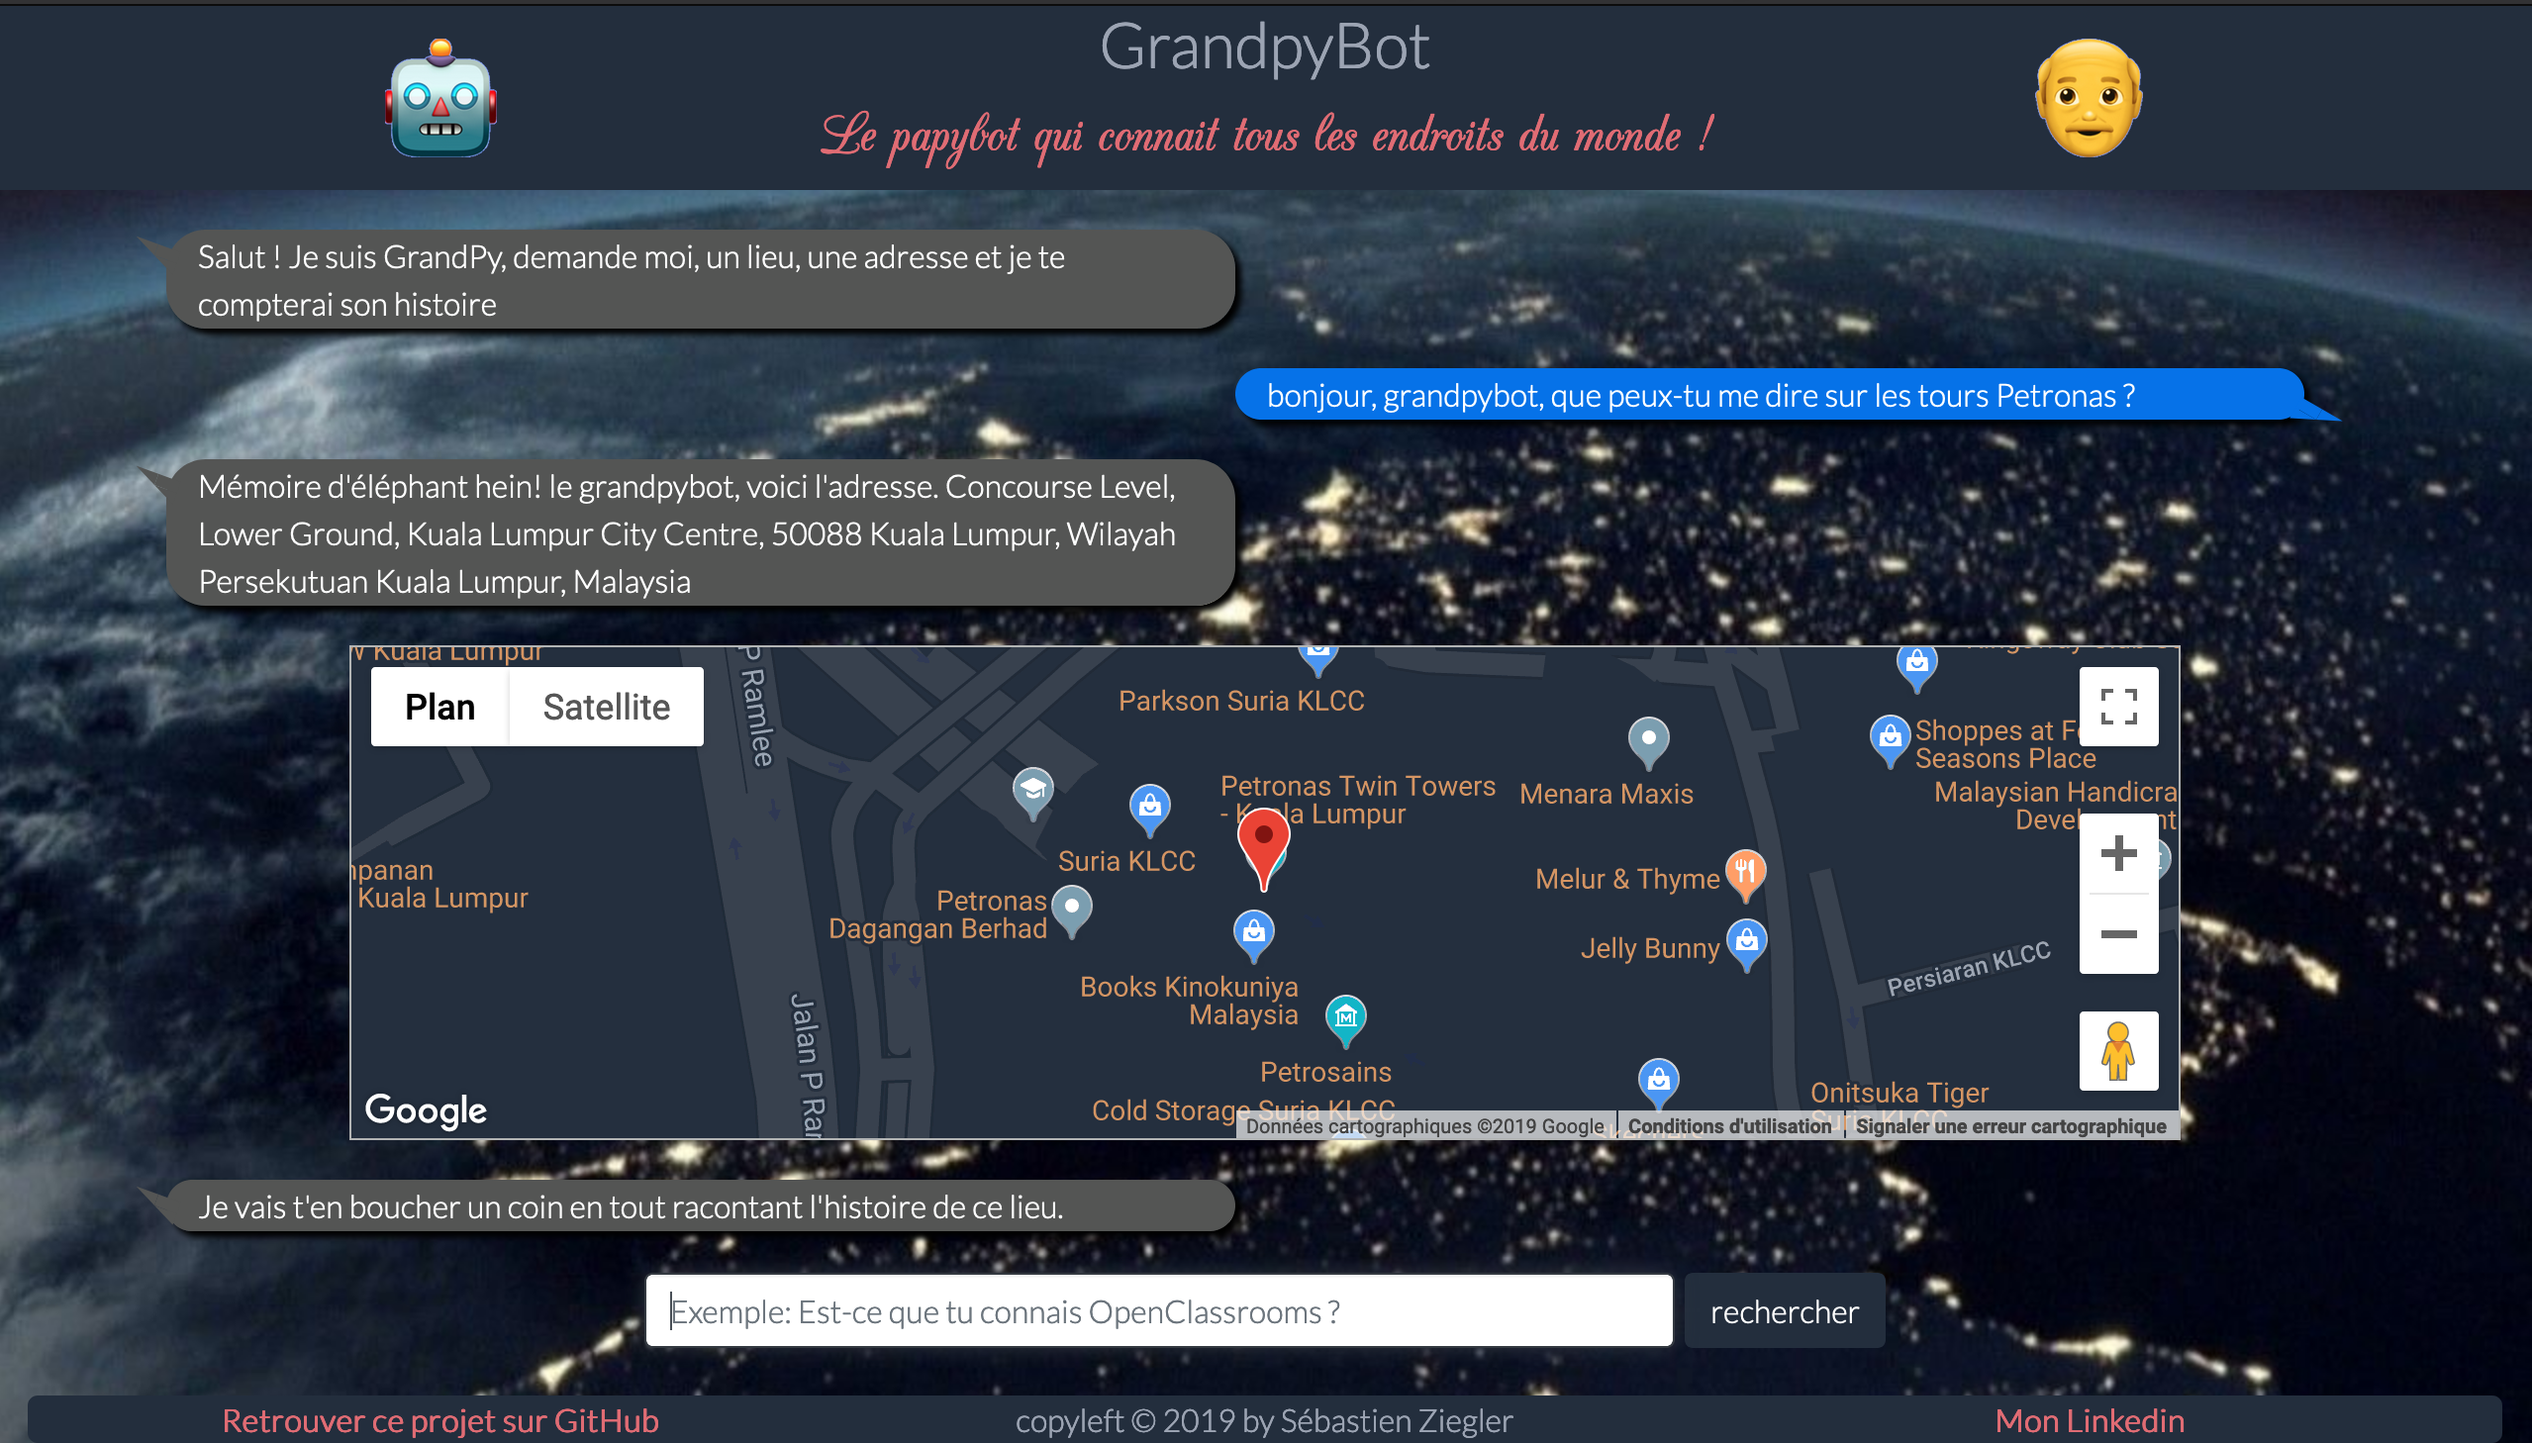
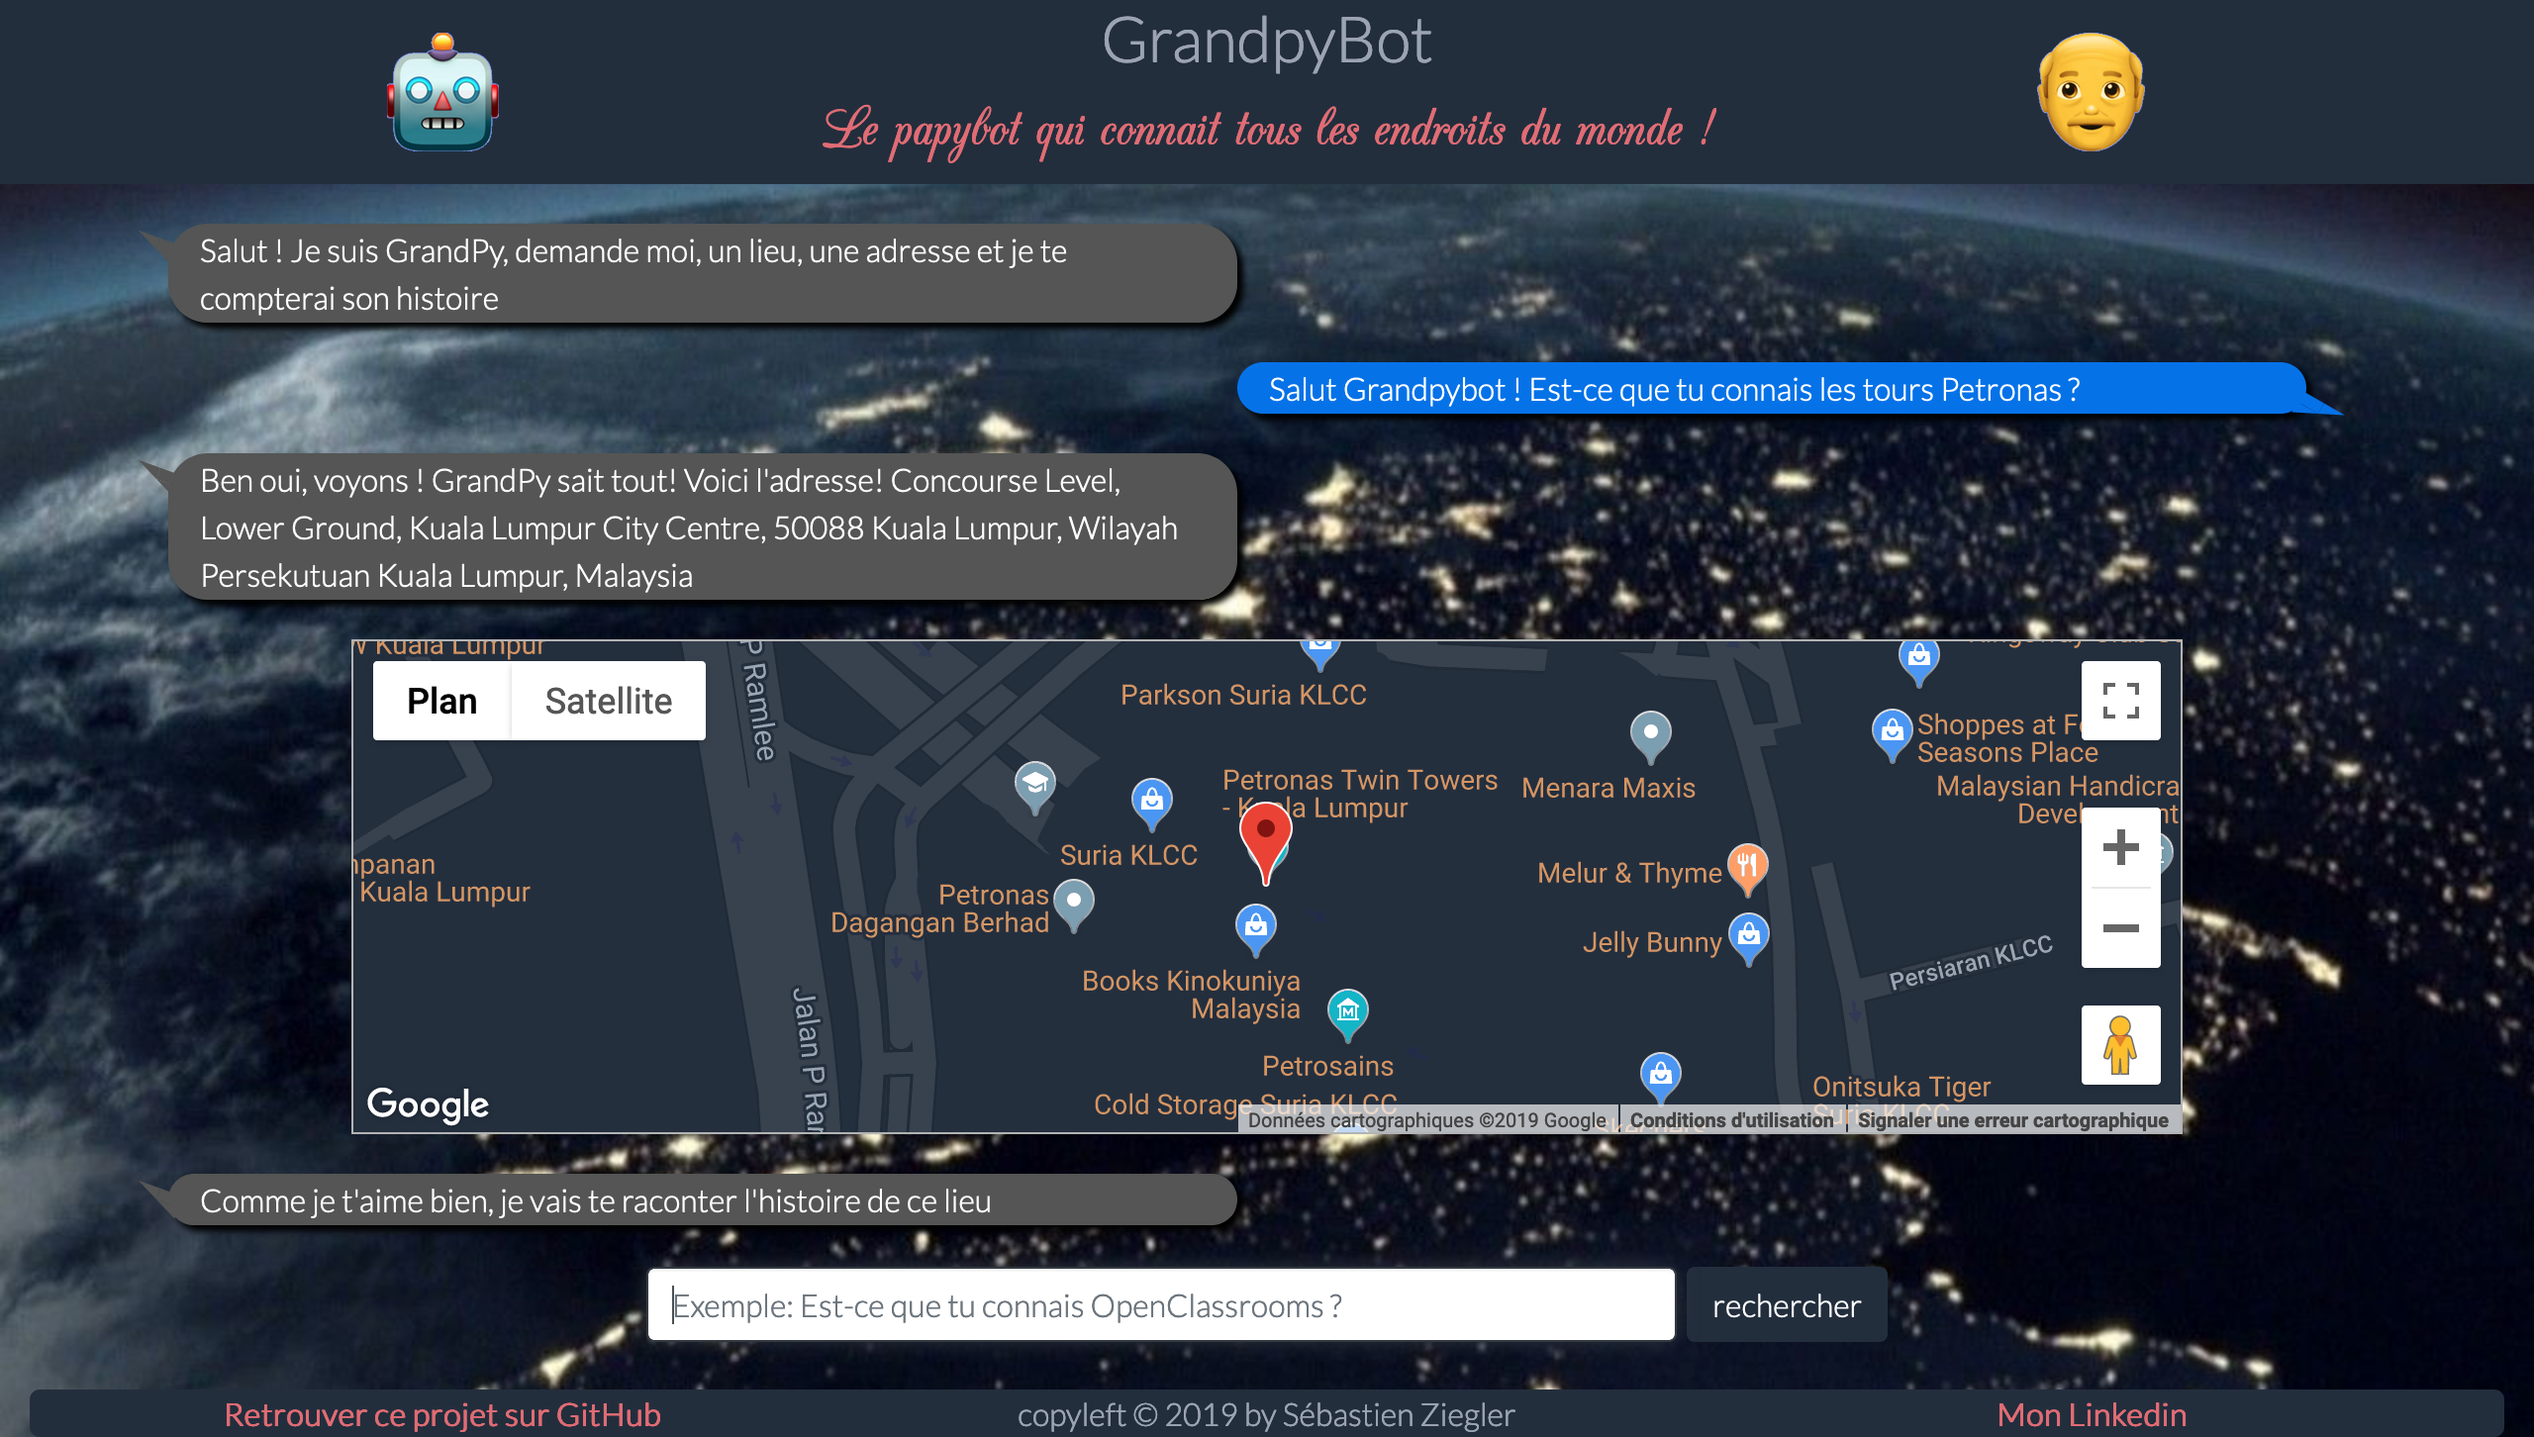
Update Text and Sreenshots

diff --git a/grandpybotapp/utils/settings/texts_config.py b/grandpybotapp/utils/settings/texts_config.py
@@ -5,10 +5,10 @@ STOPWORDS = ["a","abord","absolument","afin","ah","ai","aie","ailleurs","ainsi",
 
 CUSTOM_STOPWORDS=["salut", "bonjour", "hello", "grandpy", "grandpybot", "grand-père", "papy", "bot", "connais", "connaissais", "connu", "adresse", "lieu", "endroit", "s'appelle", "si", "s'il", "te", "plaît", "stp", "merci", "sais", "sais-tu", "saurais", "saurais-tu", "sauriez", "sauriez-vous", "trouve", "veux", "voudrais", "souhaite", "souhaiterais", "voir", "aller", "rendre", "indiquer", "visiter"]
 
-WIKIFOUND=["HA ha! Oui, je connais bien. Je vais te raconter ce que je sais sur cet endroit.", " Assieds toi mon petiot, je vais te conter l'histoire de ce lieu", "Comme je t'aime bien, je vais te raconter l'histoire de ce lieu", "Je vais t'en boucher un coin en tout racontant l'histoire de ce lieu."]
+WIKIFOUND=["HA ha! Oui, je connais bien. Je vais te raconter ce que je sais sur cet endroit.", " Assieds toi mon petiot, je vais te conter l'histoire de ce lieu", "Comme je t'aime bien, je vais te raconter l'histoire de ce lieu", "Je vais t'en boucher un coin en te racontant l'histoire de ce lieu."]
 
-GOOGLEFOUND=["Mémoire d'éléphant hein! le grandpybot, voici l'adresse. " , "Super ! Je me souviens de l'adresse la voici! ", "heureka ! Ha oui oui oui, mais bien sûr, je me rappelle de cette endroit, voilà son emplacement !", "Champion du monde de la mémoire, Grandpy sait tout! Ca se trouve...", "Ben oui, voyons ! GrandPy sait tout! Voici l'adresse! "]
+GOOGLEFOUND=["Mémoire d'éléphant hein! le grandpybot, voici l'adresse. " , "Super ! Je me souviens de l'adresse la voici! ", "heureka ! Ha oui oui oui, mais bien sûr, je me rappelle de cette endroit, voilà son emplacement ! ", "Champion du monde de la mémoire, Grandpy sait tout! Ca se trouve... ", "Ben oui, voyons ! GrandPy sait tout! Voici l'adresse! "]
 
-WIKINOTFOUND =["Flute! J'ai un trou de mémoire, c'est ballot!! Du coup, je n'ai rien à te raconter sur ce lieu","Je me creuse la tête mais je n'ai pas de souvenir de cet endroit !", "Ce lieu m'est inconnu, je ne me souviens de rien","Mayday mayday ! RAS sur ce lieu.", "Haaa! Appellez une amblance, je perd la mémoire, après nonante recherches, je ne trouve pas de souvenir de ce lieu, une fois! Quoi...? Y'a un 'U' à amblance ????'"]
+WIKINOTFOUND =["Flute! J'ai un trou de mémoire, c'est ballot!! Du coup, je n'ai rien à te raconter sur ce lieu.","Je me creuse la tête mais je n'ai pas de souvenir de cet endroit !", "Ce lieu m'est inconnu, je ne me souviens de rien","Mayday mayday ! RAS sur ce lieu.", "Haaa! Appellez une amblance, je perd la mémoire, après nonante recherches, je ne trouve pas de souvenir de ce lieu, une fois! Quoi...? Y'a un 'U' à amblance ????'"]
 
-GOOGLENOTFOUND=["Heuuu faut demander au facteur, je ne sais pas où se trouve cet endroit!", "Tu m'as eu là...heu, je ne me souviens pas où se trouve ce lieu ! :-(", "Je ne connais pas l'adresse, <<c'est mon dernier mot Jean-Pierre.>>, il faut appeler un ami.", "Désolé, je ne connais pas cette adresse"]
+GOOGLENOTFOUND=["Heuuu faut demander au facteur, je ne sais pas où se trouve cet endroit! ", "Tu m'as eu là...heu, je ne me souviens pas où se trouve ce lieu ! :-( ", "Je ne connais pas l'adresse, <<c'est mon dernier mot Jean-Pierre.>>, il faut appeler un ami ou renouveller ta requête. ", "Désolé, je ne connais pas cette adresse "]
